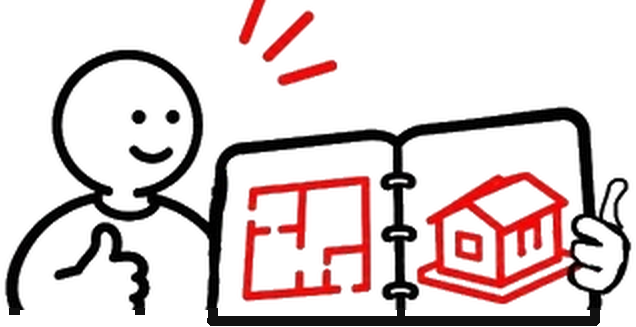
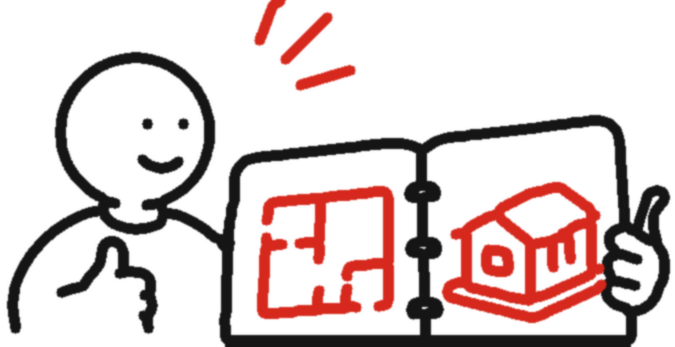
Draft: figures redrawn with uniform smooth strokes
Claude-Session: https://claude.ai/code/session_01EwRfVRwqpTJVtze869hkia

diff --git a/services/apartment-design/index.html b/services/apartment-design/index.html
@@ -55,7 +55,7 @@
   <div class="section-head"><p class="label"><span>Что вы получаете</span><span class="muted">Квартиры и апартаменты</span></p></div>
   <div class="grid">
     <h2 class="s-12">Идея, картинка или инструкция</h2>
-    <div class="s-4 gains pkg-card"><figure class="pkg-ill"><img src="../../assets/img/pkg/fig-idea.png" alt="" width="183" height="121" style="width:183px"></figure><h3 class="pkg-name">Идея</h3><p class="pkg-subt">Рисуем, как вы будете жить</p><p class="label pkg-meta">Простой · от 9,6 $/м² · от 1 до 2 недель</p><p class="pkg-count">Чтобы понять, как будет устроено ваше пространство</p><p class="pkg-tag">Минимальный набор</p><ul class="pkg-matrix"><li class="pkg-m"><img src="../../assets/img/pkg/i-plan.svg" alt="" width="34" height="34"><span>Планировка</span></li><li class="pkg-m"><img src="../../assets/img/pkg/i-ai.svg" alt="" width="34" height="34"><span>AI-эскиз</span></li><li class="pkg-m off"><img src="../../assets/img/pkg/i-3d.svg" alt="" width="34" height="34"><span>3D</span></li><li class="pkg-m off"><img src="../../assets/img/pkg/i-elev.svg" alt="" width="34" height="34"><span>Развёртки</span></li><li class="pkg-m off"><img src="../../assets/img/pkg/i-finish.svg" alt="" width="34" height="34"><span>Отделка</span></li><li class="pkg-m off"><img src="../../assets/img/pkg/i-elec.svg" alt="" width="34" height="34"><span>Электрика</span></li><li class="pkg-m off"><img src="../../assets/img/pkg/i-plumb.svg" alt="" width="34" height="34"><span>Сантехника</span></li><li class="pkg-m off"><img src="../../assets/img/pkg/i-furn.svg" alt="" width="34" height="34"><span>Подбор мебели</span></li></ul><ul class="pkg-list"><li>Обмерный план по вашим замерам или плану БТИ</li><li>До 2 вариантов планировочного решения с расстановкой мебели</li><li>AI-эскизы каждого помещения для поиска стиля и атмосферы</li><li>До 3 раундов правок</li></ul><p class="pkg-note muted">Подвинуть шкаф на полметра считается правкой, а не новой планировкой. Шкафы мы двигаем с удовольствием.</p><p class="pkg-btn"><a class="btn" href="../../index.html?pkg=Идея#brief" data-pkg="Идея">Выбрать «Идея» →</a></p></div>
+    <div class="s-4 gains pkg-card"><figure class="pkg-ill"><img src="../../assets/img/pkg/fig-idea.png" alt="" width="183" height="120" style="width:183px"></figure><h3 class="pkg-name">Идея</h3><p class="pkg-subt">Рисуем, как вы будете жить</p><p class="label pkg-meta">Простой · от 9,6 $/м² · от 1 до 2 недель</p><p class="pkg-count">Чтобы понять, как будет устроено ваше пространство</p><p class="pkg-tag">Минимальный набор</p><ul class="pkg-matrix"><li class="pkg-m"><img src="../../assets/img/pkg/i-plan.svg" alt="" width="34" height="34"><span>Планировка</span></li><li class="pkg-m"><img src="../../assets/img/pkg/i-ai.svg" alt="" width="34" height="34"><span>AI-эскиз</span></li><li class="pkg-m off"><img src="../../assets/img/pkg/i-3d.svg" alt="" width="34" height="34"><span>3D</span></li><li class="pkg-m off"><img src="../../assets/img/pkg/i-elev.svg" alt="" width="34" height="34"><span>Развёртки</span></li><li class="pkg-m off"><img src="../../assets/img/pkg/i-finish.svg" alt="" width="34" height="34"><span>Отделка</span></li><li class="pkg-m off"><img src="../../assets/img/pkg/i-elec.svg" alt="" width="34" height="34"><span>Электрика</span></li><li class="pkg-m off"><img src="../../assets/img/pkg/i-plumb.svg" alt="" width="34" height="34"><span>Сантехника</span></li><li class="pkg-m off"><img src="../../assets/img/pkg/i-furn.svg" alt="" width="34" height="34"><span>Подбор мебели</span></li></ul><ul class="pkg-list"><li>Обмерный план по вашим замерам или плану БТИ</li><li>До 2 вариантов планировочного решения с расстановкой мебели</li><li>AI-эскизы каждого помещения для поиска стиля и атмосферы</li><li>До 3 раундов правок</li></ul><p class="pkg-note muted">Подвинуть шкаф на полметра считается правкой, а не новой планировкой. Шкафы мы двигаем с удовольствием.</p><p class="pkg-btn"><a class="btn" href="../../index.html?pkg=Идея#brief" data-pkg="Идея">Выбрать «Идея» →</a></p></div>
     <div class="s-4 gains pkg-card gains--featured" data-badge="Популярный"><figure class="pkg-ill"><img src="../../assets/img/pkg/fig-picture.png" alt="" width="225" height="116" style="width:225px"></figure><h3 class="pkg-name">Картинка</h3><p class="pkg-subt">Смотрим, как это будет выглядеть</p><p class="label pkg-meta">Базовый · от 14,7 $/м² · от 2 до 3 недель</p><p class="pkg-count"><b>От 15 листов,</b><br>чтобы увидеть будущий интерьер</p><p class="pkg-tag">Базовый комплект чертежей без инженерии</p><ul class="pkg-matrix"><li class="pkg-m"><img src="../../assets/img/pkg/i-plan.svg" alt="" width="34" height="34"><span>Планировка</span></li><li class="pkg-m"><img src="../../assets/img/pkg/i-ai.svg" alt="" width="34" height="34"><span>AI-эскиз</span></li><li class="pkg-m"><img src="../../assets/img/pkg/i-3d.svg" alt="" width="34" height="34"><span>3D</span></li><li class="pkg-m"><img src="../../assets/img/pkg/i-elev.svg" alt="" width="34" height="34"><span>Развёртки</span></li><li class="pkg-m off"><img src="../../assets/img/pkg/i-finish.svg" alt="" width="34" height="34"><span>Отделка</span></li><li class="pkg-m off"><img src="../../assets/img/pkg/i-elec.svg" alt="" width="34" height="34"><span>Электрика</span></li><li class="pkg-m off"><img src="../../assets/img/pkg/i-plumb.svg" alt="" width="34" height="34"><span>Сантехника</span></li><li class="pkg-m off"><img src="../../assets/img/pkg/i-furn.svg" alt="" width="34" height="34"><span>Подбор мебели</span></li></ul><ul class="pkg-list"><li>Всё, что входит в «Идею»</li><li>До 3 вариантов планировочного решения с расстановкой мебели</li><li>1 концепция интерьера</li><li>3D-визуализации всех помещений, по 2 ракурса на каждое</li><li>Развёртки стен без инженерных схем</li><li>До 3 раундов правок</li></ul><p class="pkg-btn"><a class="btn btn--signal" href="../../index.html?pkg=Картинка#brief" data-pkg="Картинка">Выбрать «Картинка» →</a></p></div>
     <div class="s-4 gains pkg-card"><figure class="pkg-ill"><img src="../../assets/img/pkg/fig-instructions.png" alt="" width="329" height="124" style="width:329px"></figure><h3 class="pkg-name">Инструкция</h3><p class="pkg-subt">Передаём всё необходимое для реализации</p><p class="label pkg-meta">Полный · от 19,3 $/м² · от 4 до 5 недель</p><p class="pkg-count"><b>От 27 листов,</b><br>чтобы строить без догадок</p><p class="pkg-tag">Полный комплект документации для реализации</p><ul class="pkg-matrix"><li class="pkg-m"><img src="../../assets/img/pkg/i-plan.svg" alt="" width="34" height="34"><span>Планировка</span></li><li class="pkg-m"><img src="../../assets/img/pkg/i-ai.svg" alt="" width="34" height="34"><span>AI-эскиз</span></li><li class="pkg-m"><img src="../../assets/img/pkg/i-3d.svg" alt="" width="34" height="34"><span>3D</span></li><li class="pkg-m"><img src="../../assets/img/pkg/i-elev.svg" alt="" width="34" height="34"><span>Развёртки</span></li><li class="pkg-m"><img src="../../assets/img/pkg/i-finish.svg" alt="" width="34" height="34"><span>Отделка</span></li><li class="pkg-m"><img src="../../assets/img/pkg/i-elec.svg" alt="" width="34" height="34"><span>Электрика</span></li><li class="pkg-m"><img src="../../assets/img/pkg/i-plumb.svg" alt="" width="34" height="34"><span>Сантехника</span></li><li class="pkg-m"><img src="../../assets/img/pkg/i-furn.svg" alt="" width="34" height="34"><span>Подбор мебели</span></li></ul><ul class="pkg-list"><li>Всё, что входит в «Картинку»</li><li>До 5 вариантов планировочного решения</li><li>2 концепции интерьера</li><li>По 3 или 4 ракурса каждого помещения и панорамы 360°</li><li>Развёртки стен с привязками инженерии</li><li>Отделка, электрика, тёплый пол и сантехника</li><li>Ведомости дверных проёмов и лючков, разрез</li><li>Подбор материалов и мебели со спецификацией</li><li>До 5 раундов правок</li></ul><p class="pkg-note muted">Хотите больше вариантов? Сделаю их дополнительно, стоимость обсудим.</p><p class="pkg-btn"><a class="btn" href="../../index.html?pkg=Инструкция#brief" data-pkg="Инструкция">Выбрать «Инструкция» →</a></p></div>
     <p class="s-12 muted">Цена ниже рынка, потому что рутину считает BIM-модель, а не человек. Все листы собираются из одной модели, поэтому размеры сходятся.</p>

diff --git a/en/services/apartment-design/index.html b/en/services/apartment-design/index.html
@@ -55,7 +55,7 @@
   <div class="section-head"><p class="label"><span>What you get</span><span class="muted">Apartments</span></p></div>
   <div class="grid">
     <h2 class="s-12">Idea, Picture or Instructions</h2>
-    <div class="s-4 gains pkg-card"><figure class="pkg-ill"><img src="../../../assets/img/pkg/fig-idea.png" alt="" width="183" height="121" style="width:183px"></figure><h3 class="pkg-name">Idea</h3><p class="pkg-subt">We sketch how you will live</p><p class="label pkg-meta">Basic · from $9.6/m² · 1 to 2 weeks</p><p class="pkg-count">To understand how your space will work</p><p class="pkg-tag">Minimal set</p><ul class="pkg-matrix"><li class="pkg-m"><img src="../../../assets/img/pkg/i-plan.svg" alt="" width="34" height="34"><span>Layout</span></li><li class="pkg-m"><img src="../../../assets/img/pkg/i-ai.svg" alt="" width="34" height="34"><span>AI sketch</span></li><li class="pkg-m off"><img src="../../../assets/img/pkg/i-3d.svg" alt="" width="34" height="34"><span>3D</span></li><li class="pkg-m off"><img src="../../../assets/img/pkg/i-elev.svg" alt="" width="34" height="34"><span>Elevations</span></li><li class="pkg-m off"><img src="../../../assets/img/pkg/i-finish.svg" alt="" width="34" height="34"><span>Finishes</span></li><li class="pkg-m off"><img src="../../../assets/img/pkg/i-elec.svg" alt="" width="34" height="34"><span>Electrical</span></li><li class="pkg-m off"><img src="../../../assets/img/pkg/i-plumb.svg" alt="" width="34" height="34"><span>Plumbing</span></li><li class="pkg-m off"><img src="../../../assets/img/pkg/i-furn.svg" alt="" width="34" height="34"><span>Furniture</span></li></ul><ul class="pkg-list"><li>Measured plan from your measurements or the BTI plan</li><li>Up to 2 layout options with furniture arrangement</li><li>AI sketches of every room to find the style and mood</li><li>Up to 3 rounds of revisions</li></ul><p class="pkg-note muted">Moving a wardrobe half a metre is a revision, not a new layout. We are always happy to move wardrobes.</p><p class="pkg-btn"><a class="btn" href="../../index.html?pkg=Idea#brief" data-pkg="Idea">Choose Idea →</a></p></div>
+    <div class="s-4 gains pkg-card"><figure class="pkg-ill"><img src="../../../assets/img/pkg/fig-idea.png" alt="" width="183" height="120" style="width:183px"></figure><h3 class="pkg-name">Idea</h3><p class="pkg-subt">We sketch how you will live</p><p class="label pkg-meta">Basic · from $9.6/m² · 1 to 2 weeks</p><p class="pkg-count">To understand how your space will work</p><p class="pkg-tag">Minimal set</p><ul class="pkg-matrix"><li class="pkg-m"><img src="../../../assets/img/pkg/i-plan.svg" alt="" width="34" height="34"><span>Layout</span></li><li class="pkg-m"><img src="../../../assets/img/pkg/i-ai.svg" alt="" width="34" height="34"><span>AI sketch</span></li><li class="pkg-m off"><img src="../../../assets/img/pkg/i-3d.svg" alt="" width="34" height="34"><span>3D</span></li><li class="pkg-m off"><img src="../../../assets/img/pkg/i-elev.svg" alt="" width="34" height="34"><span>Elevations</span></li><li class="pkg-m off"><img src="../../../assets/img/pkg/i-finish.svg" alt="" width="34" height="34"><span>Finishes</span></li><li class="pkg-m off"><img src="../../../assets/img/pkg/i-elec.svg" alt="" width="34" height="34"><span>Electrical</span></li><li class="pkg-m off"><img src="../../../assets/img/pkg/i-plumb.svg" alt="" width="34" height="34"><span>Plumbing</span></li><li class="pkg-m off"><img src="../../../assets/img/pkg/i-furn.svg" alt="" width="34" height="34"><span>Furniture</span></li></ul><ul class="pkg-list"><li>Measured plan from your measurements or the BTI plan</li><li>Up to 2 layout options with furniture arrangement</li><li>AI sketches of every room to find the style and mood</li><li>Up to 3 rounds of revisions</li></ul><p class="pkg-note muted">Moving a wardrobe half a metre is a revision, not a new layout. We are always happy to move wardrobes.</p><p class="pkg-btn"><a class="btn" href="../../index.html?pkg=Idea#brief" data-pkg="Idea">Choose Idea →</a></p></div>
     <div class="s-4 gains pkg-card gains--featured" data-badge="Popular"><figure class="pkg-ill"><img src="../../../assets/img/pkg/fig-picture.png" alt="" width="225" height="116" style="width:225px"></figure><h3 class="pkg-name">Picture</h3><p class="pkg-subt">We see how it will look</p><p class="label pkg-meta">Standard · from $14.7/m² · 2 to 3 weeks</p><p class="pkg-count"><b>From 15 sheets,</b><br>to see your future interior</p><p class="pkg-tag">Basic drawing set without engineering</p><ul class="pkg-matrix"><li class="pkg-m"><img src="../../../assets/img/pkg/i-plan.svg" alt="" width="34" height="34"><span>Layout</span></li><li class="pkg-m"><img src="../../../assets/img/pkg/i-ai.svg" alt="" width="34" height="34"><span>AI sketch</span></li><li class="pkg-m"><img src="../../../assets/img/pkg/i-3d.svg" alt="" width="34" height="34"><span>3D</span></li><li class="pkg-m"><img src="../../../assets/img/pkg/i-elev.svg" alt="" width="34" height="34"><span>Elevations</span></li><li class="pkg-m off"><img src="../../../assets/img/pkg/i-finish.svg" alt="" width="34" height="34"><span>Finishes</span></li><li class="pkg-m off"><img src="../../../assets/img/pkg/i-elec.svg" alt="" width="34" height="34"><span>Electrical</span></li><li class="pkg-m off"><img src="../../../assets/img/pkg/i-plumb.svg" alt="" width="34" height="34"><span>Plumbing</span></li><li class="pkg-m off"><img src="../../../assets/img/pkg/i-furn.svg" alt="" width="34" height="34"><span>Furniture</span></li></ul><ul class="pkg-list"><li>Everything in Idea</li><li>Up to 3 layout options with furniture arrangement</li><li>1 interior concept</li><li>3D visualisations of every room, 2 views each</li><li>Wall elevations without engineering</li><li>Up to 3 rounds of revisions</li></ul><p class="pkg-btn"><a class="btn btn--signal" href="../../index.html?pkg=Picture#brief" data-pkg="Picture">Choose Picture →</a></p></div>
     <div class="s-4 gains pkg-card"><figure class="pkg-ill"><img src="../../../assets/img/pkg/fig-instructions.png" alt="" width="329" height="124" style="width:329px"></figure><h3 class="pkg-name">Instructions</h3><p class="pkg-subt">We hand over everything needed to build</p><p class="label pkg-meta">Full · from $19.3/m² · 4 to 5 weeks</p><p class="pkg-count"><b>From 27 sheets,</b><br>to build without guesswork</p><p class="pkg-tag">Complete documentation for the build</p><ul class="pkg-matrix"><li class="pkg-m"><img src="../../../assets/img/pkg/i-plan.svg" alt="" width="34" height="34"><span>Layout</span></li><li class="pkg-m"><img src="../../../assets/img/pkg/i-ai.svg" alt="" width="34" height="34"><span>AI sketch</span></li><li class="pkg-m"><img src="../../../assets/img/pkg/i-3d.svg" alt="" width="34" height="34"><span>3D</span></li><li class="pkg-m"><img src="../../../assets/img/pkg/i-elev.svg" alt="" width="34" height="34"><span>Elevations</span></li><li class="pkg-m"><img src="../../../assets/img/pkg/i-finish.svg" alt="" width="34" height="34"><span>Finishes</span></li><li class="pkg-m"><img src="../../../assets/img/pkg/i-elec.svg" alt="" width="34" height="34"><span>Electrical</span></li><li class="pkg-m"><img src="../../../assets/img/pkg/i-plumb.svg" alt="" width="34" height="34"><span>Plumbing</span></li><li class="pkg-m"><img src="../../../assets/img/pkg/i-furn.svg" alt="" width="34" height="34"><span>Furniture</span></li></ul><ul class="pkg-list"><li>Everything in Picture</li><li>Up to 5 layout options</li><li>2 interior concepts</li><li>3 or 4 views of every room and 360° panoramas</li><li>Wall elevations with engineering setting-out</li><li>Finishes, electrical, underfloor heating and plumbing</li><li>Door opening and access hatch schedules, section</li><li>Selection of materials and furniture with a specification</li><li>Up to 5 rounds of revisions</li></ul><p class="pkg-note muted">Need more options? I will make them separately, we will agree on the cost.</p><p class="pkg-btn"><a class="btn" href="../../index.html?pkg=Instructions#brief" data-pkg="Instructions">Choose Instructions →</a></p></div>
     <p class="s-12 muted">The price is below market because the routine is calculated by the BIM model, not by hand. All sheets come from one model, so dimensions always match.</p>
